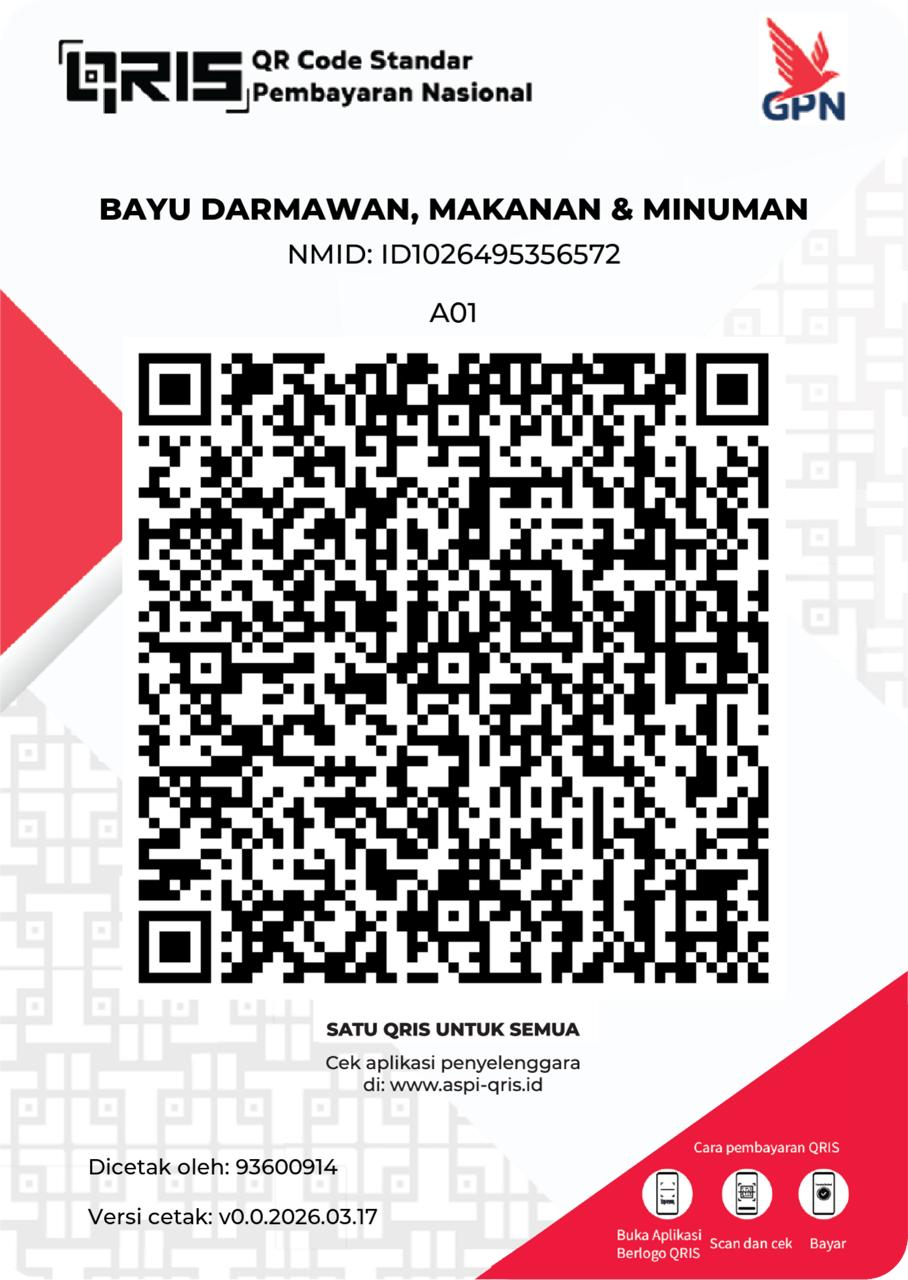
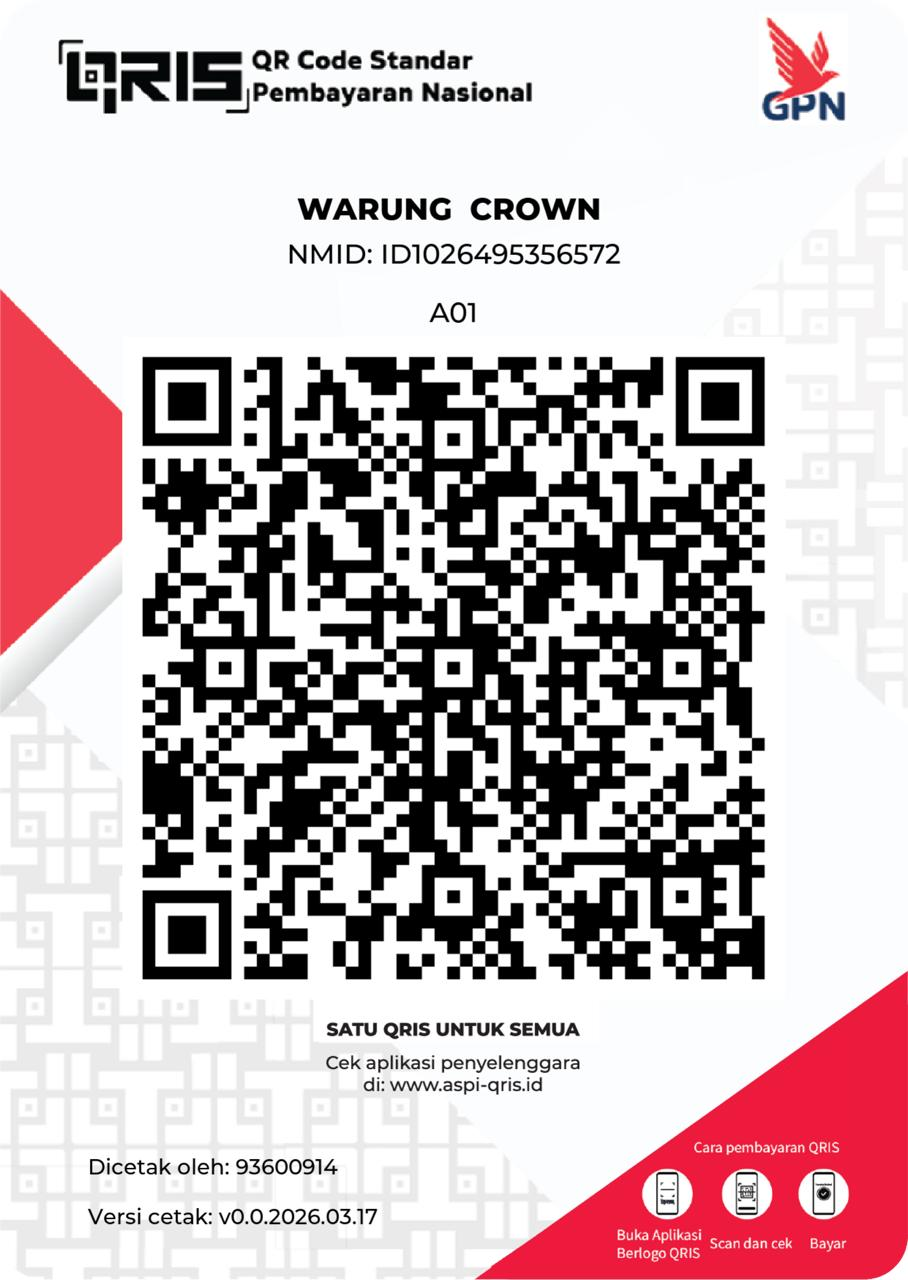
feat: Update QRIS image to Warung Crown and remove Kejurda location/fee details

Changed region(s): [[0.1542, 0.25, 0.8634, 0.7812], [0.0925, 0.1562, 0.8943, 0.1875]]

diff --git a/src/app/dashboard/info/page.tsx b/src/app/dashboard/info/page.tsx
@@ -329,7 +329,7 @@ export default function InfoDashboardPage() {
                   </div>
                   <div className="flex justify-between pt-1 text-sm">
                     <span className="text-slate-300">A.N. QRIS</span>
-                    <span className="font-semibold text-white">Bayu Darmawan</span>
+                    <span className="font-semibold text-white">Warung Crown</span>
                   </div>
                 </div>
               </CardContent>
@@ -414,13 +414,9 @@ export default function InfoDashboardPage() {
                     <span className="text-slate-300">Tanggal Pelaksanaan</span>
                     <span className="font-semibold text-white">31 Mei 2026</span>
                   </div>
-                  <div className="flex justify-between border-b border-white/10 pb-2 text-sm">
-                    <span className="text-slate-300">Lokasi</span>
-                    <span className="font-semibold text-white">GOR Pajajaran Bandung</span>
-                  </div>
                   <div className="flex justify-between pt-1 text-sm">
-                    <span className="text-slate-300">Biaya Pendaftaran</span>
-                    <span className="font-semibold text-white">Rp 100.000 / atlet</span>
+                    <span className="text-slate-300">Status</span>
+                    <span className="font-semibold text-amber-400">Persiapan Tim</span>
                   </div>
                 </div>
               </CardContent>
